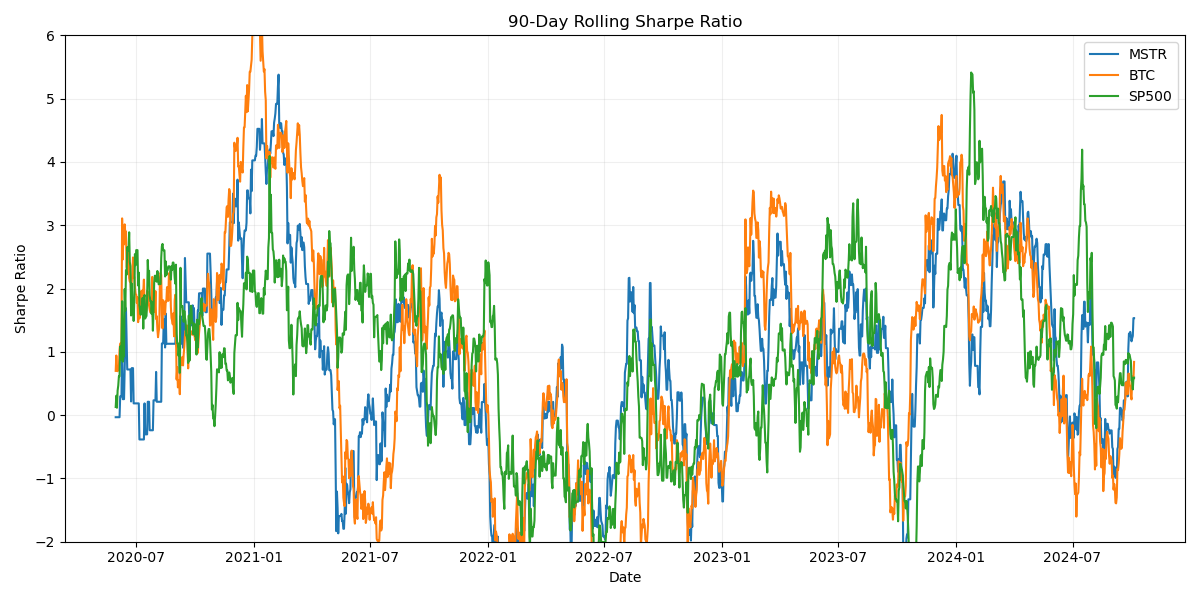
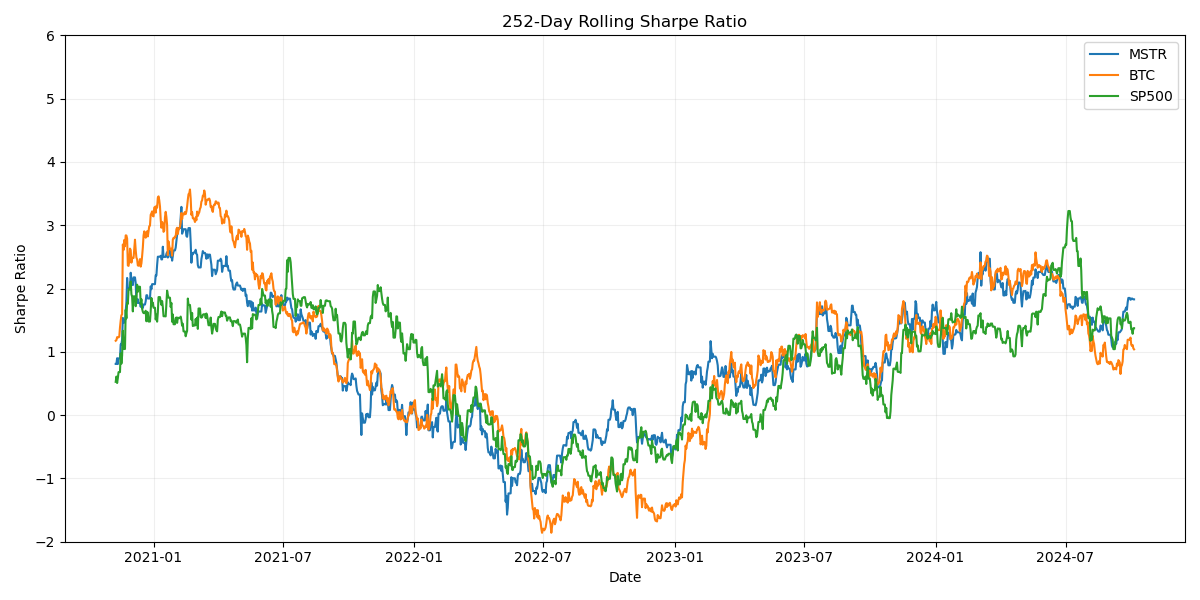
Resolved merge conflicts

diff --git a/src/stats.py b/src/stats.py
@@ -100,7 +100,7 @@ def plot_rolling_correlation(returns, window=90, output_dir=None):
     plt.savefig(os.path.join(output_dir, 'rolling_correlation.png'))
     plt.close()
 
-def plot_rolling_sharpe_ratio(returns, risk_free_rate=0.02, window=90, output_dir=None):
+def plot_rolling_sharpe_ratio(returns, risk_free_rate=0.02, window=252, output_dir=None):
     excess_returns = returns - risk_free_rate / 252
     rolling_mean = excess_returns.rolling(window=window).mean()
     rolling_std = excess_returns.rolling(window=window).std()
